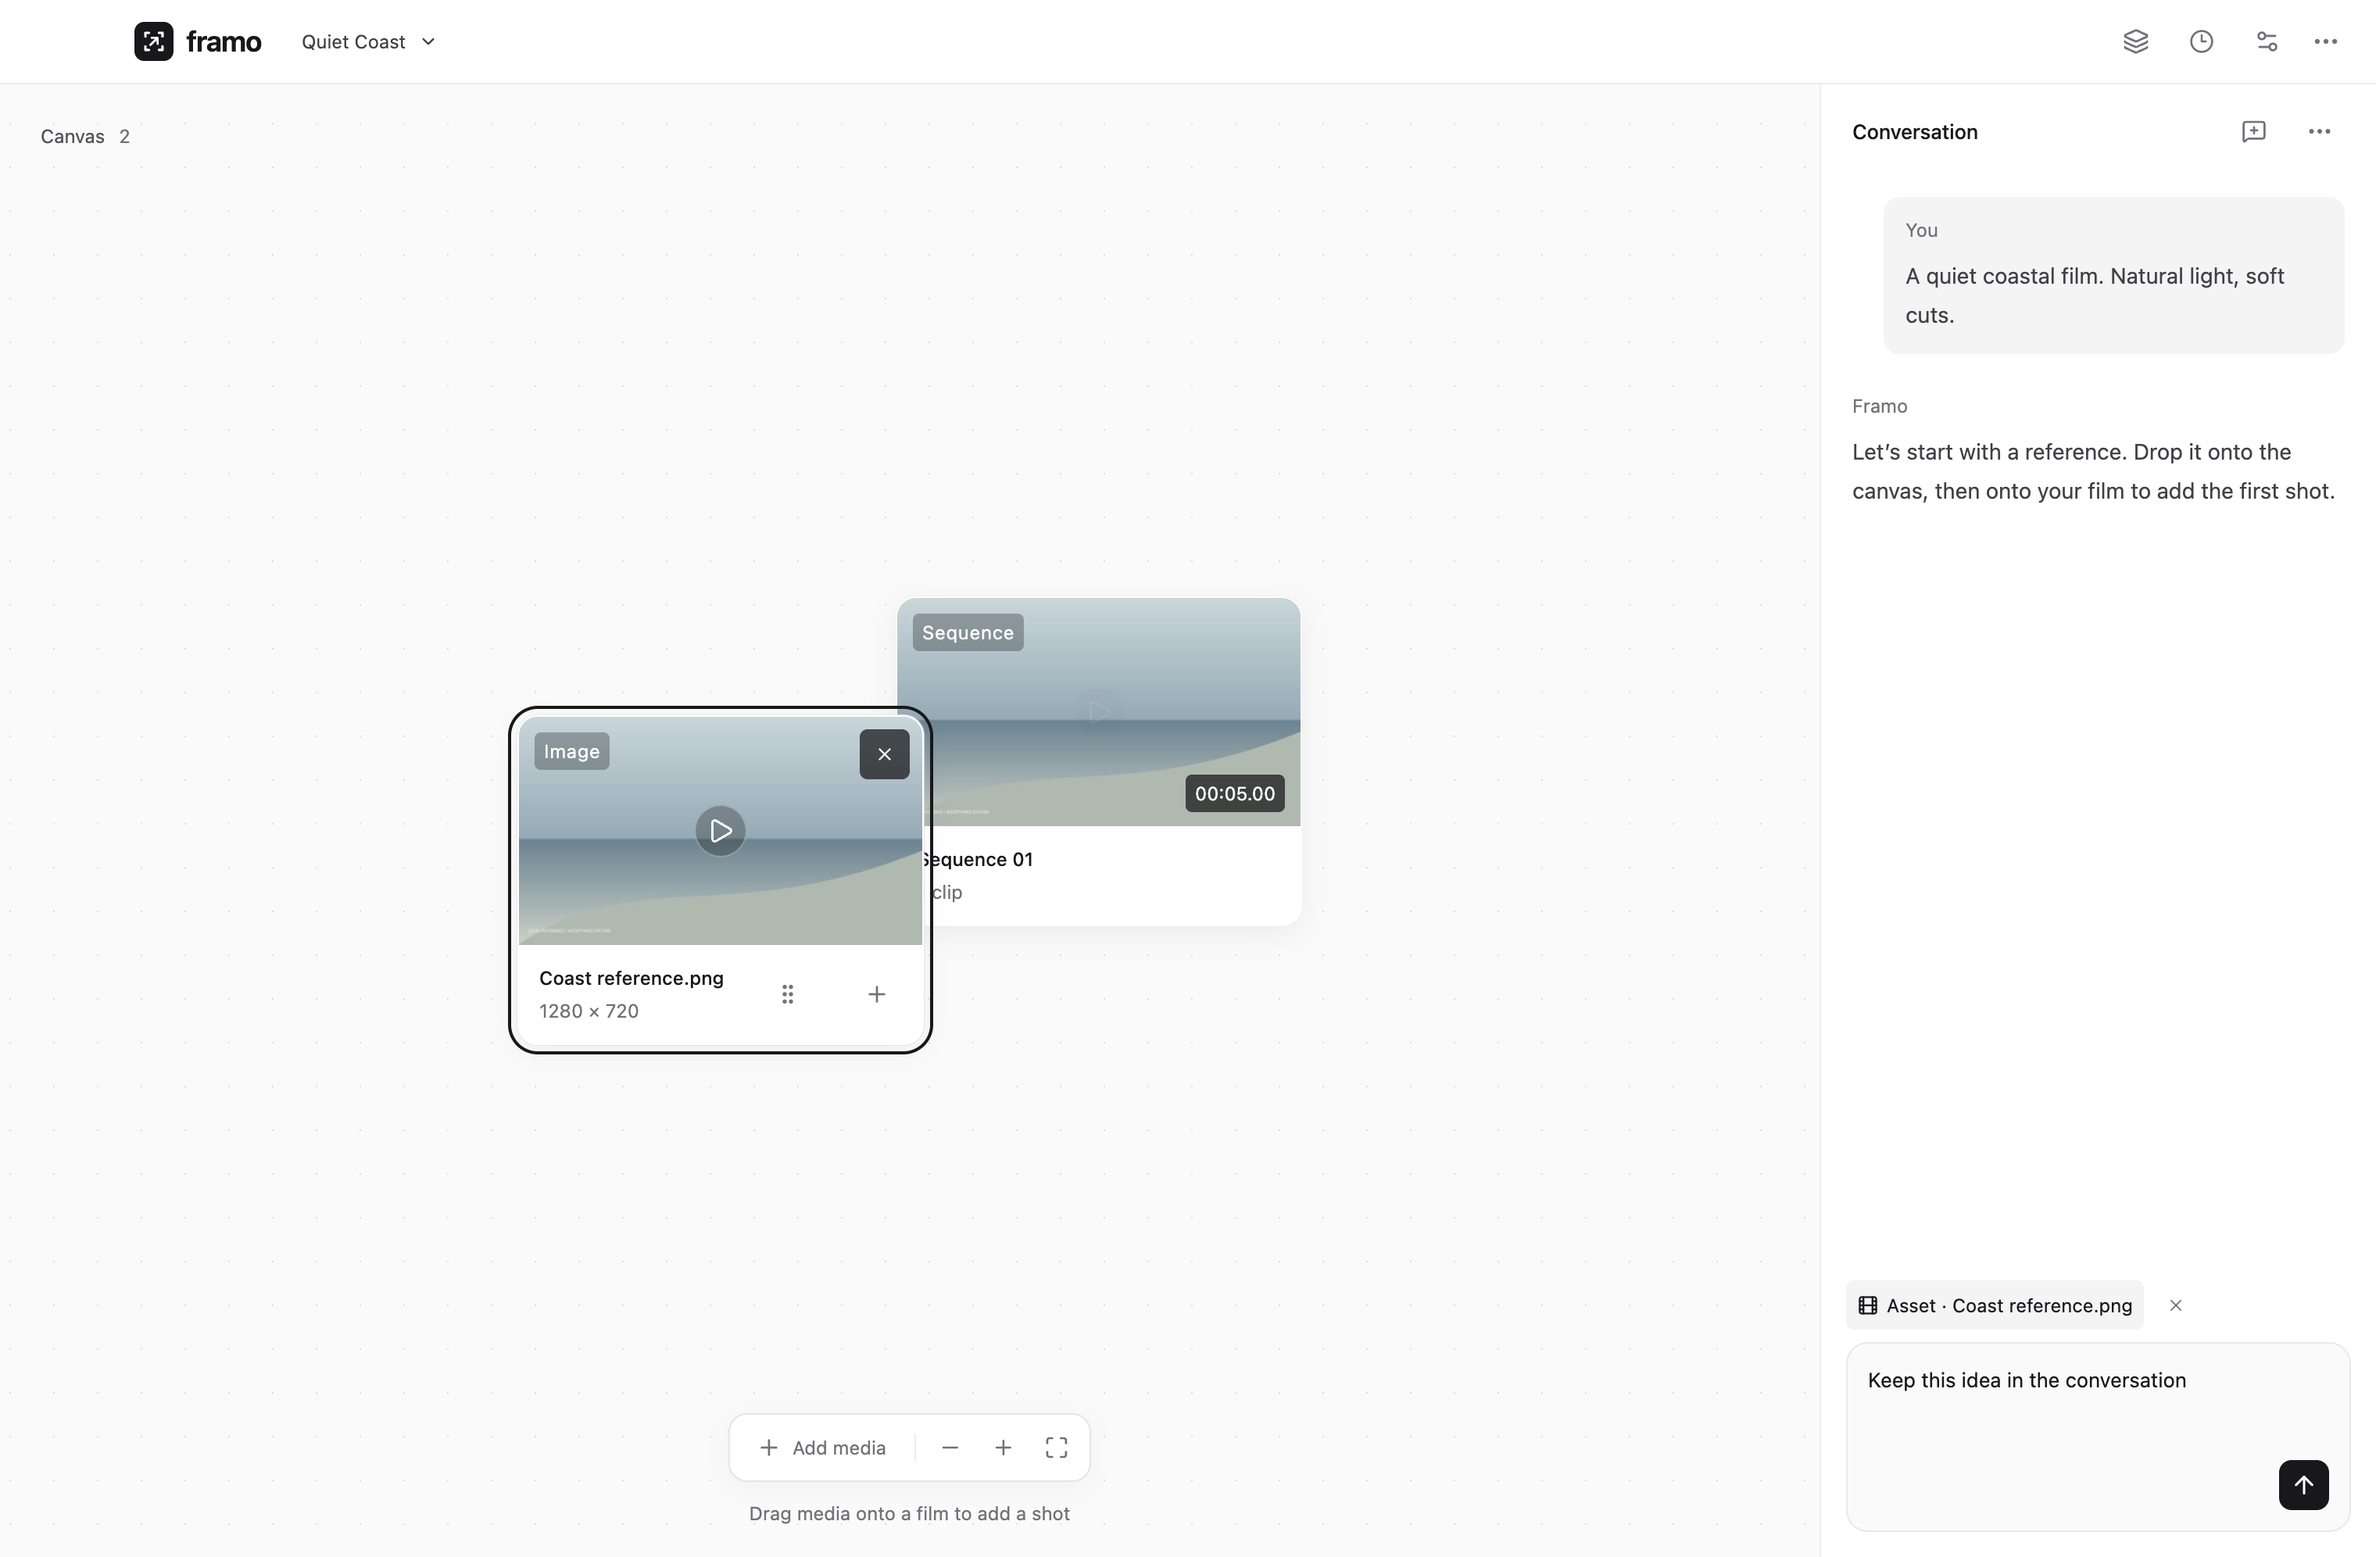
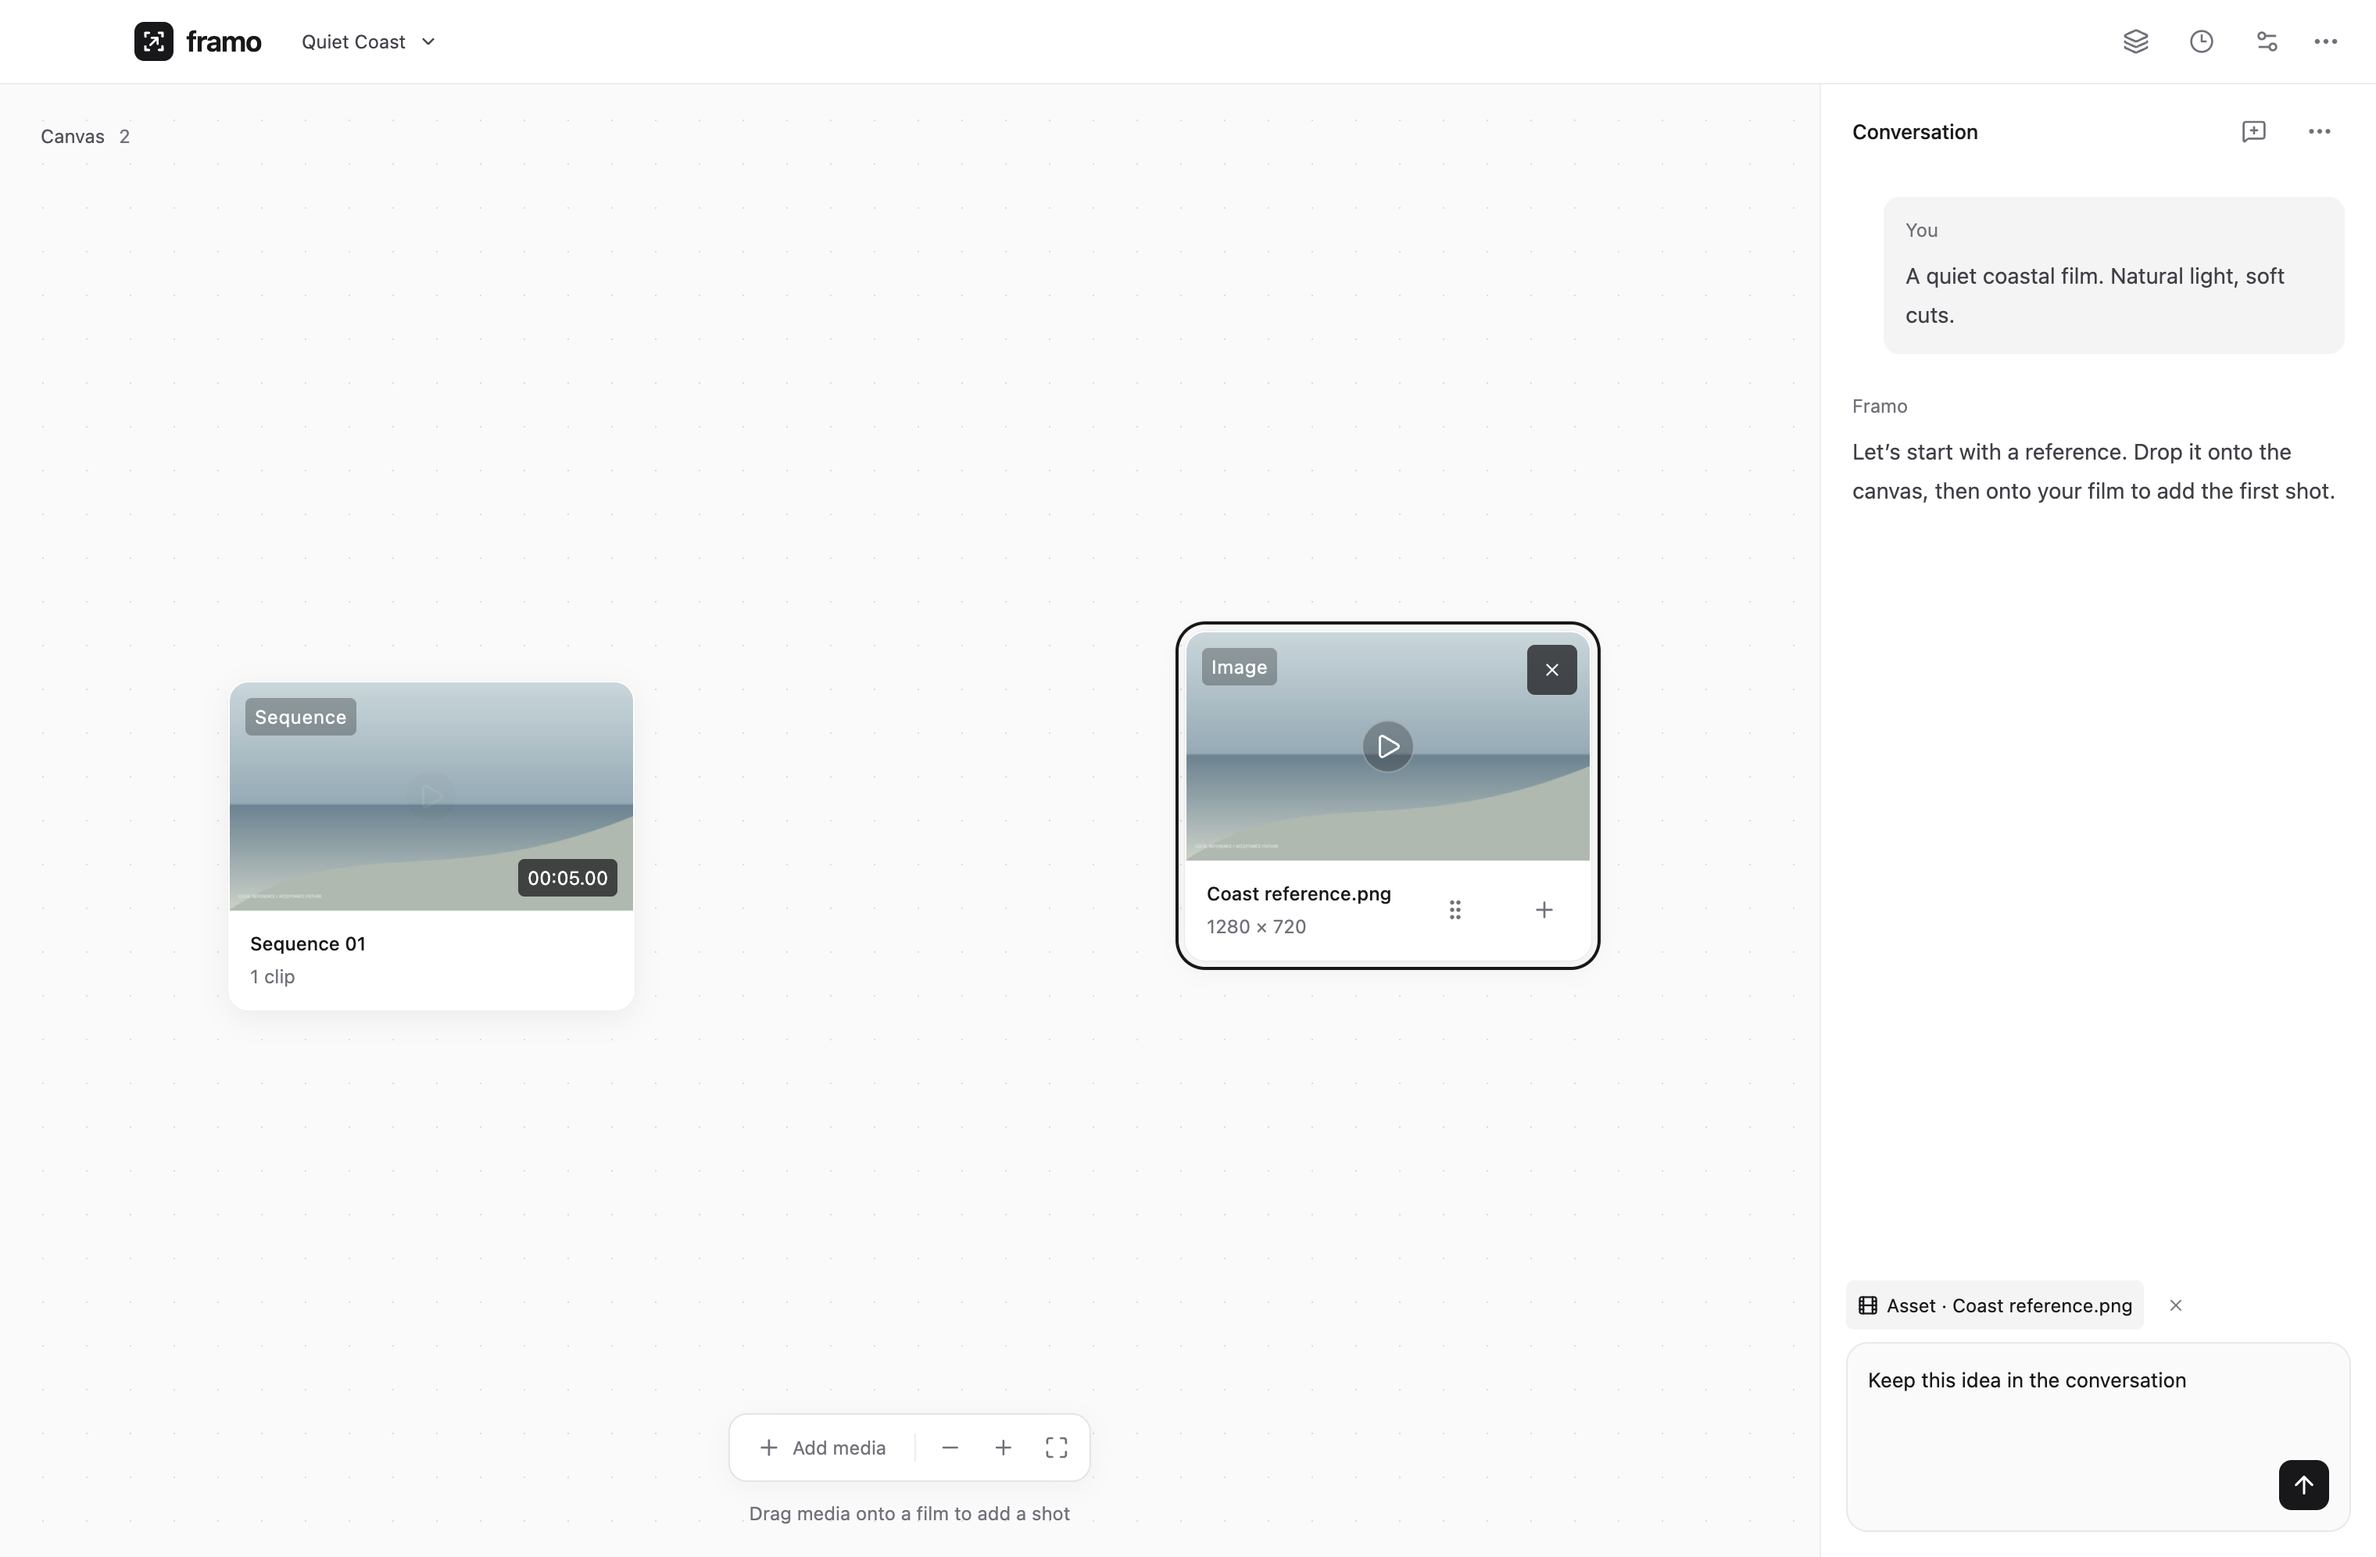
Reconcile persisted card layout when dragging ends
Track drag phase as reactive state so adoption restores saved positions and normal movement reconciles after persistence. Verify Framo 0.4.1 with all six packaged desktop suites.

Changed region(s): [[0.0938, 0.3735, 0.6875, 0.6536]]

diff --git a/apps/desktop/src/renderer/Canvas.tsx b/apps/desktop/src/renderer/Canvas.tsx
@@ -166,7 +166,7 @@ function CanvasInner({
   const { t } = useI18n();
   const [nodes, setNodes] = useState<CardNode[]>([]);
   const [fileDrag, setFileDrag] = useState(false);
-  const dragging = useRef(false);
+  const [dragging, setDragging] = useState(false);
   const container = useRef<HTMLElement>(null);
   const hadEditor = useRef(false);
   const fittedProject = useRef<string | null>(null);
@@ -205,7 +205,7 @@ function CanvasInner({
         return {
           id: item.id,
           type: 'card',
-          position: dragging.current && current ? current.position : { x: item.x, y: item.y },
+          position: dragging && current ? current.position : { x: item.x, y: item.y },
           // Keep measured dimensions so selecting a card never hides it between clicks.
           measured: current?.measured,
           selected: item.refId === selection,
@@ -217,7 +217,7 @@ function CanvasInner({
             thumbnail: cover?.thumbnailUrl || (cover?.kind === 'image' ? cover.url : undefined),
             selected: item.refId === selection,
             busy,
-            dropTarget: dragging.current ? (current?.data.dropTarget ?? false) : false,
+            dropTarget: dragging ? (current?.data.dropTarget ?? false) : false,
             onSelect,
             onHide,
             onAdd,
@@ -227,7 +227,7 @@ function CanvasInner({
         };
       });
     });
-  }, [snapshot, selection, onSelect, onHide, onAdd, onInspect, onEdit, busy]);
+  }, [snapshot, selection, onSelect, onHide, onAdd, onInspect, onEdit, busy, dragging]);
   useEffect(() => {
     if (
       !flow.viewportInitialized ||
@@ -300,7 +300,7 @@ function CanvasInner({
           else if (node.data.asset) onInspect(node.data.asset);
         }}
         onNodeDragStart={() => {
-          dragging.current = true;
+          setDragging(true);
         }}
         onNodeDrag={(_, node) => {
           const target = targetFor(node);
@@ -312,26 +312,16 @@ function CanvasInner({
           );
         }}
         onNodeDragStop={(_, node) => {
-          dragging.current = false;
           const target = targetFor(node);
           if (target && node.data.asset) {
+            setDragging(false);
             onAdd(node.data.asset, target.data.sequence!.id);
-            setNodes((previous) =>
-              previous.map((item) => ({
-                ...item,
-                position:
-                  item.id === node.id
-                    ? { x: node.data.item.x, y: node.data.item.y }
-                    : item.position,
-                data: { ...item.data, dropTarget: false },
-              })),
-            );
           } else {
             void onSave(
               snapshot.canvas.items.map((item) =>
                 item.id === node.id ? { ...item, x: node.position.x, y: node.position.y } : item,
               ),
-            );
+            ).finally(() => setDragging(false));
           }
         }}
         minZoom={0.25}

diff --git a/scripts/desktop-canvas-first.ts b/scripts/desktop-canvas-first.ts
@@ -182,6 +182,18 @@ try {
   );
   assert.equal(await page.getByTestId('timeline').count(), 0, 'Adoption stays on the board');
   await page.getByTestId('sequence-card').getByText('1 clip', { exact: true }).waitFor();
+  await page.waitForFunction(
+    () => {
+      const asset = document.querySelector('[data-testid="asset-card"]')!.getBoundingClientRect();
+      const sequence = document
+        .querySelector('[data-testid="sequence-card"]')!
+        .getBoundingClientRect();
+      return asset.left > sequence.right;
+    },
+    undefined,
+    { timeout: 2000 },
+  );
+
   const composer = page.getByTestId('agent-prompt');
   await composer.fill('Keep this idea in the conversation');
   await page.screenshot({ path: join(directory, 'pre-reference.png') });
@@ -312,6 +324,7 @@ try {
         forgedFileRejected: true,
         cardMoveReopen: true,
         dragAdoption: true,
+        adoptionRestoresCardLayout: true,
         referenceDropPreservesDraft: true,
         inlineExactApproval: true,
         adoptionUndo: true,

diff --git a/docs/verification.md b/docs/verification.md
@@ -25,6 +25,15 @@ Release acceptance additionally checks the packaged application, clean-profile f
 
 Implementation review used the initial repository commit as a fixed baseline and checked both documented standards and the supplied desktop requirements. Fixes include aborted preparation, crash-safe shared budgets, exact recipe approvals, core-owned idempotent undo/redo, confined session files, registered-only media access, and explicit memory confirmation. A small duplicate proposal-construction helper remains a refactoring opportunity; it does not create another write path.
 
+## Framo 0.4.1 evidence
+
+Final macOS Apple Silicon release acceptance on 2026-10-14:
+
+- The drag phase now triggers React reconciliation when it ends. Adoption restores the saved card layout; a regular move keeps its position until saving finishes. Measured dimensions and live metadata remain intact.
+- Source typecheck, production/SDK builds, formatting and all 167 tests pass. A clean extraction of the final ZIP passes all six native desktop suites. Canvas acceptance additionally checks that the source card returns to its saved layout after adoption.
+- Strict ad-hoc signature, DMG integrity and the four release checksums pass. Both targeted review axes report no new finding. The README image is the final packaged application using synthetic acceptance data.
+- No new paid model calls occurred. The unchanged Kit SDK remains 0.3.0; Developer ID signing/notarization and real paid chat acceptance remain outside this preview verification.
+
 ## Framo 0.4.0 evidence
 
 The canvas and conversation update and final macOS Apple Silicon ZIP were checked on 2026-10-14:
